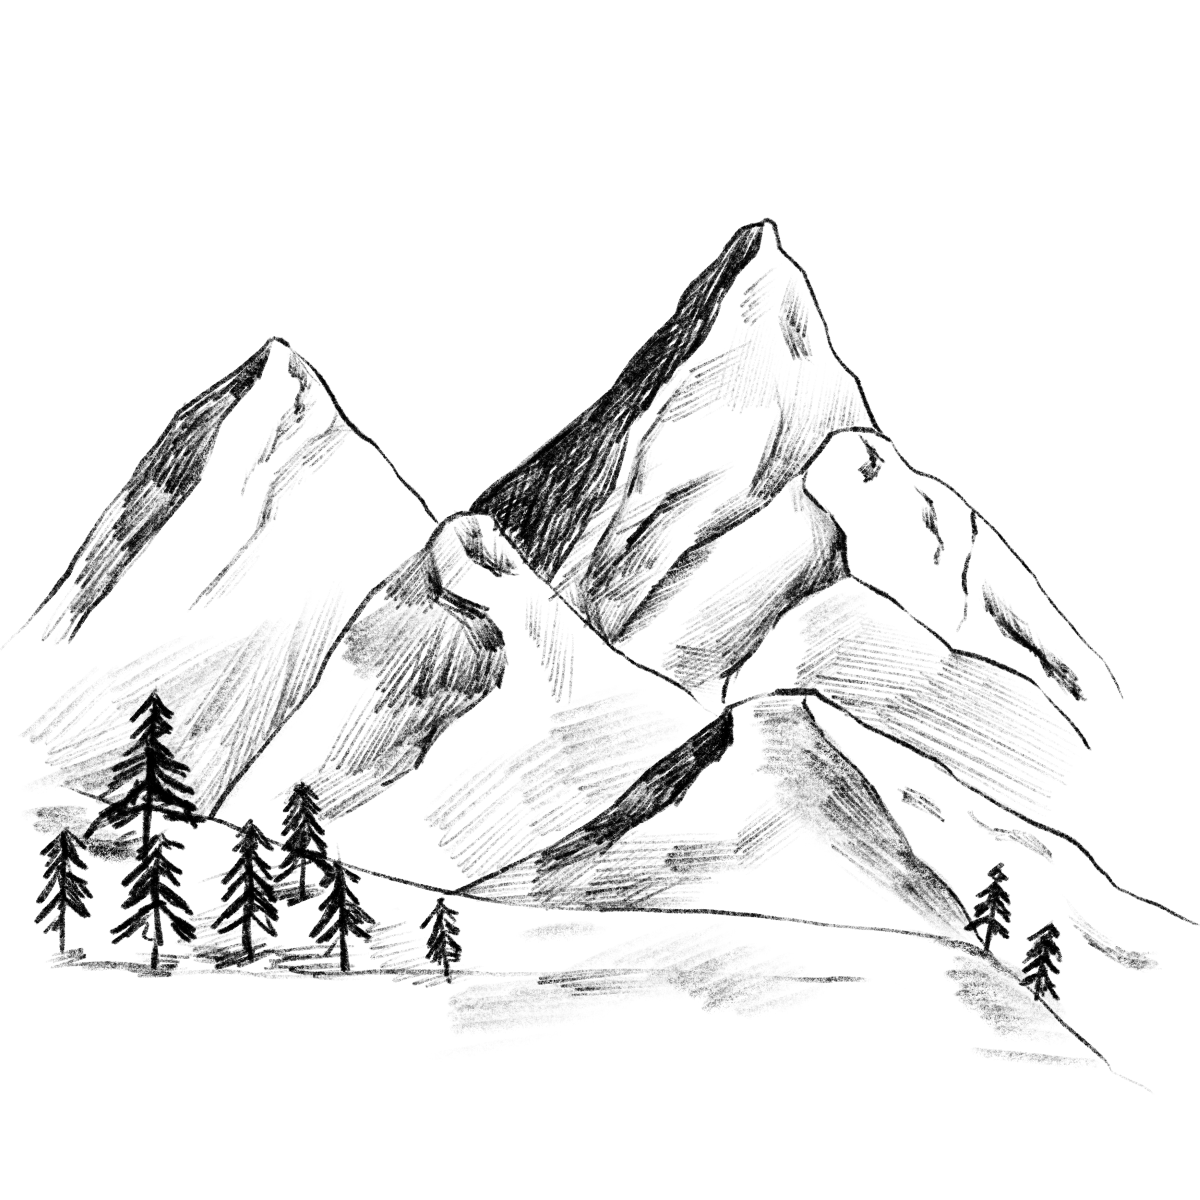
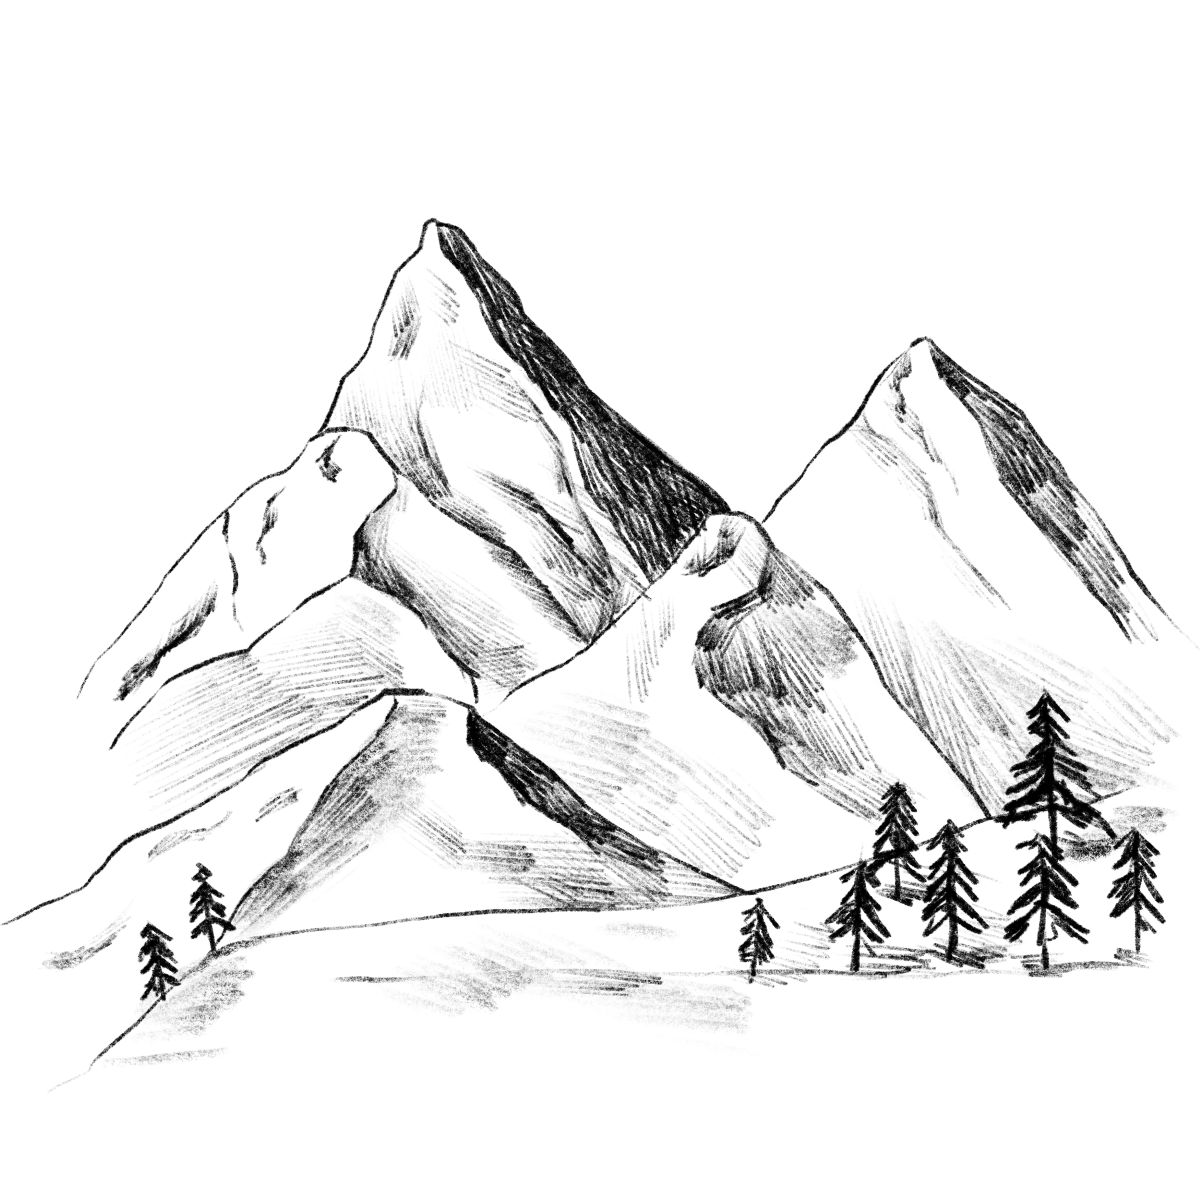
Update: About.jsx page 1-3

Changed region(s): [[0.0, 0.185, 0.9867, 0.8942]]

diff --git a/src/pages/About.jsx b/src/pages/About.jsx
@@ -1,71 +1,90 @@
 import { useEffect } from 'react';
-import AOS from 'aos';
 import { Animator, ScrollContainer, ScrollPage, batch, Fade, MoveOut, Sticky } from "react-scroll-motion";
+import AOS from 'aos';
 // images
 import floral_1 from '../assets/img/floral-01.png';
 import floral_2 from '../assets/img/floral-02.png';
-import jasmine from '../assets/img/sunset-peak-07.jpg';
-import mountain_1 from '../assets/img/mountain-00.png';
+import jasmine from '../assets/img/sunset-peak-01.jpg';
+import mountain_1 from '../assets/img/mountain-01.png';
 
 const About = () => {
+  const FadeUp = batch(Fade(), Sticky(), MoveOut(0, -680));
 
   useEffect(() => {
-    AOS.init({ duration: 2000 });
-    // return () => {
-    //   second
-    // }
+    AOS.init({ 
+      duration: 1800, 
+      easing: 'ease-in-out' 
+    });
   }, [])
-
-  const FadeUp = batch(Fade(), Sticky(), MoveOut(0, -700));
   
   return (
     <>
     <ScrollContainer>
       <ScrollPage>
-        <Animator 
-          animation={FadeUp}
-        >
+        <Animator animation={FadeUp}>
           <div className="about-page">
             <img
-              src={floral_1} alt="Floral" 
+              src={floral_1} alt="Floral"
               className="deco-img deco-img-01"
+              data-aos="fade-right" data-aos-once='true'
             />
-            <span className="headings">
-              <h1>DeineLieblingsJasmin</h1>
-              <h2>{">"} Blog of Jasmine Zeng</h2>
-            </span>
+            <div className="headings">
+              <h1 
+                className="about-p1-txt1" 
+                data-aos="fade-right" data-aos-once='true'
+              >
+                DeineLieblingsJasmin
+              </h1>
+              <h2 
+                className="about-p1-txt2" 
+                data-aos="fade-left" data-aos-once='true'
+              >
+                {">"} Blog of Jasmine Zeng
+              </h2>
+            </div>
             <img 
-              src={floral_2} alt="Floral" 
-              className="deco-img deco-img-02" 
+              src={floral_2} alt="Floral"
+              className="deco-img deco-img-02"
             />
           </div>
         </Animator>
       </ScrollPage>
     </ScrollContainer>
-
-    <div className="about-page about-page-02">
-      <img
-        src={jasmine} alt="Jasmine at Sunset Peak, Lantau Island, Hong Kong, 2021. Photo by Tsz Kwan Chiang" 
-        className="jasmine-img"
-      />
-      <span className="headings">
-        <p>
-          Hello, this is Jasmine. I'm a Hong-Kong-based marketing undergrad with a passion for web development, language learning, hiking and history. 
-        </p>
-      </span>
+    
+    <div className="about-page2 row" data-aos="slide-up">
+      <div className="column-l-p2">
+        <img
+          src={jasmine} alt="Jasmine at Sunset Peak, Lantau Island, Hong Kong, 2021. Photo by Tsz Kwan Chiang" 
+          className="jasmine-img"
+        />
+      </div>
+      <div className="column-r-p2">
+        <h2 className="about-txt-p2">
+          Hello, my name is <i><strong>Jasmine</strong></i>.
+          <br />
+          I'm a Hong-Kong-based marketing undergrad with a passion for web development, language learning, hiking and history. 
+        </h2>
+      </div>
     </div>
 
-    <p data-aos="fade-up">
-      Lorem ipsum dolor sit amet, consectetur adipiscing elit. Phasellus fringilla felis ut mollis semper. Duis vel risus odio. Curabitur viverra arcu id nunc blandit sodales. Nulla auctor, ex sed viverra bibendum, eros enim ullamcorper enim, ac tempus nunc turpis sit amet libero. Phasellus commodo augue in mattis rutrum. Curabitur est libero, pulvinar ac pretium vitae, dapibus vitae mi. Proin tempor vulputate elit, eu blandit ipsum lobortis vel. Quisque posuere velit tincidunt, dignissim justo ac, efficitur nibh. Donec vel mi ut arcu auctor interdum. Sed at tristique elit, id accumsan elit. Aliquam sed libero ipsum. Maecenas turpis nisl, fermentum vitae sodales varius, pretium vitae odio. Aliquam suscipit, erat sit amet dictum bibendum, dolor mi imperdiet lorem, quis sollicitudin lacus lacus eget enim.
+    <div className="about-page3 row">
+      <div className="column-l-p3" data-aos="fade-up">
+        <h2 className="about-txt-p2 about-txt-p3">
+          I had a solo hike at Sai Kung while visiting HK in 2018.
+          <br />
+          My love of hiking was instantly sparked by the beauty of nature, which among other factors led to the decision of moving to there.
+        </h2>
+      </div>
+      <div className="column-r-p3 coloum-r-p3" data-aos="flip-right">
+        <img
+          src={mountain_1} alt="Sketch Mountain" 
+          className="mountain-img"
+        />
+      </div>
+    </div>
 
-      Ut et condimentum est. Pellentesque ut tortor nec felis dictum vulputate. Nam suscipit, eros eu ornare sodales, eros velit convallis tellus, semper congue dolor sem aliquam orci. Curabitur non mi et orci convallis eleifend sed id orci. Mauris lobortis velit sit amet maximus mattis. Quisque vel imperdiet augue. Suspendisse tincidunt eros ac venenatis egestas. Fusce et quam sed dui pharetra fermentum. Nullam ut pretium tellus, at aliquet quam. Vivamus nisi lacus, efficitur et libero a, sodales lacinia enim. Vestibulum iaculis dolor eu augue dictum, non luctus sapien maximus.
 
-      Fusce dignissim, ex sit amet egestas luctus, velit massa blandit enim, a dictum massa arcu id neque. Sed condimentum venenatis metus, vestibulum ullamcorper metus pulvinar nec. Nunc ut dui quis lectus bibendum ornare. Aliquam gravida egestas massa, eget lacinia sapien porttitor eu. Vivamus sed tincidunt massa. Curabitur pellentesque vulputate commodo. Aenean ut augue pharetra, mattis sapien nec, dapibus nisl. Proin at consequat orci. In ipsum diam, sodales et ex vel, imperdiet efficitur enim. Sed tincidunt sem sed justo vestibulum efficitur. Aenean sodales, orci sed accumsan venenatis, dolor ipsum ullamcorper lacus, a convallis justo ex et arcu.
-
-      Nunc elementum mi id vulputate euismod. Nullam at purus sed ipsum tempor consectetur. Nam quis turpis et eros efficitur sagittis. Morbi venenatis erat elementum efficitur vehicula. Donec nisl mi, posuere et dapibus eget, consectetur ac nibh. Integer sit amet massa rhoncus, sagittis mauris sed, mollis lectus. Vivamus ex libero, imperdiet mollis faucibus ut, sodales sed augue. In facilisis ornare porta. Sed condimentum mollis elit eu laoreet. Nullam aliquam neque at semper porttitor. Pellentesque et nisl a mauris elementum laoreet nec sit amet felis.
-
-      Curabitur ante sapien, condimentum vitae odio in, pellentesque volutpat ex. Nulla dictum urna eget ipsum venenatis, quis fermentum sem blandit. Ut finibus id massa a tempus. Sed in sapien in lacus tincidunt vehicula vel non ligula. Sed et faucibus nulla. Ut at vehicula nulla. Praesent id justo mollis, commodo sem eget, egestas lorem. Ut quis mauris ac eros accumsan ornare. Vestibulum ante ipsum primis in faucibus orci luctus et ultrices posuere cubilia curae; Aliquam gravida, felis eu facilisis malesuada, nunc purus ultricies erat, eget volutpat lectus diam vel sem. Aliquam vel finibus lorem. Pellentesque iaculis vehicula lectus id elementum. Curabitur malesuada imperdiet ex, at dignissim arcu.
-    </p>
+    
     <br />
     <br />
     <br />

diff --git a/src/assets/global.css b/src/assets/global.css
@@ -1,9 +1,9 @@
 /* Google Fonts
-1. Satisfy, cursive
+1. Satisfy, Regular 400, cursive
 2. 
 */
-@import url('https://fonts.googleapis.com/css2?family=Satisfy&display=swap');
-
+/* @import url('https://fonts.googleapis.com/css2?family=Satisfy&display=swap'); */
+@import url('https://fonts.googleapis.com/css2?family=Hahmlet&family=Satisfy&display=swap');
 /* ---------- General ---------- */
 html { 
   -webkit-user-select: none;
@@ -22,24 +22,6 @@ html {
 body {
   background-color: hsl(0, 0%, 92%);
 }
-/* h3 { 
-  color: rgb(2, 2, 2);
-  font-family: 'Georgia', sans-serif;
-  font-size: 3vw;
-  font-weight: 500;
-  text-align: center;
-  padding-bottom: 2vh;
-}  */
-/* p, figcaption, ul, li {
-  color: rgb(2, 2, 2);
-  font-family: 'Georgia', sans-serif;
-  font-size: 1.5vw;
-  margin: 0;
-  text-align: justify;
-} */
-/* a {
-  color: inherit;
-} */
 /* ---------- Navbar ---------- */
 .navbar {
   position: fixed;
@@ -65,7 +47,7 @@ body {
 .nav-item {
   margin-left: 2vw;
 }
-/* ---------- About ---------- */
+/* ---------- About - Page 01 ---------- */
 .about-page {
   height: 100vh;
 }
@@ -73,11 +55,11 @@ body {
   font-family: 'Satisfy', 'cursive';
   text-align: center;
 }
-.headings h1 {
+.about-p1-txt1 {
   font-size: 7vw;
   margin-bottom: 3vh;
 }
-.headings h2 {
+.about-p1-txt2 {
   font-size: 4vw;
 }
 .deco-img {
@@ -87,27 +69,86 @@ body {
 }
 .deco-img-01 {
   width: 44vw;
-  margin: -7vh 0 -4vh -7.5vw;
-  transform: rotate(73deg);
+  animation: diagonal-moveIn-01 1.5s ease-in-out forwards;
+}
+@keyframes diagonal-moveIn-01 {
+	0% {
+    margin: -13vh 0 -3vh -18vw;
+    transform: rotate(75deg);
+	}
+	100% {
+    margin: -3vh 0 -3vh -8vw;
+    transform: rotate(75deg);
+	}
 }
 .deco-img-02 {
   width: 28vw;
-  margin: -25vh 0 0 72.1vw;
-  transform: rotate(10deg);
+  animation: diagonal-moveIn-02 1.5s ease-in-out forwards;
 }
-.about-page-02 {
-  margin: 0 4.5vw 0 4.5vw;
+@keyframes diagonal-moveIn-02 {
+	0% {
+    margin: -25vh 0 0 92.1vw;
+    transform: rotate(10deg);
+	}
+	100% {
+    margin: -25vh 0 0 72.1vw;
+    transform: rotate(10deg);
+	}
+}
+/* ---------- About - Page 02 ---------- */
+.about-page2 {
+  height: 80vh;
+}
+.row:after {
+  content: "";
+  display: table;
+  clear: both;
+}
+.column-l-p2 {
+  float: left;
+  width: 25%;
+  margin: 6vh 3.5vw 0 5.5vw;
 }
 .jasmine-img {
-  width: 27vw;
+  width: 26vw;
   height: auto;
   border-radius: 50%;
-  /* margin-left: 8vw; */
-  float: left;
 }
-.headings p {
-  font-size: 2.5vw;
-  font-family: 'Georgia', sans-serif;
-  text-align: justify;
-  text-justify: inter-word;
+.column-r-p2 {
+  margin: 13vh 5vw 0 0;
+  width: 60%;
+}
+.about-txt-p2 {
+  font-size: 3vw;
+  font-family: 'Hahmlet', serif;
+  font-weight: 500;
+  text-align: center;
+  line-height: 9vh; 
+}
+/* ---------- About - Page 03 ---------- */
+.about-page3 {
+  height: 90vh;
+}
+.column-l-p3 {
+  float: left;
+  /* width: 48%; */
+  width: 60%;
+  margin: 0 3.5vw 0 5.5vw;
+}
+.about-txt-p3 {
+  margin-top: 19vh;
+}
+.column-r-p3 {
+  margin: 10vh 5vw 0 8vw;
+  /* width: 30%; */
+  width: 10%;
+}
+.mountain-img {
+  /* width: 56vw; */
+  width: 56vw;
+  height: auto;
+  /* opacity: 0.49; */
+  opacity: 0.3;
+  /* margin-left: -18.5vw; */
+  margin-left: -32.5vw;
 }
